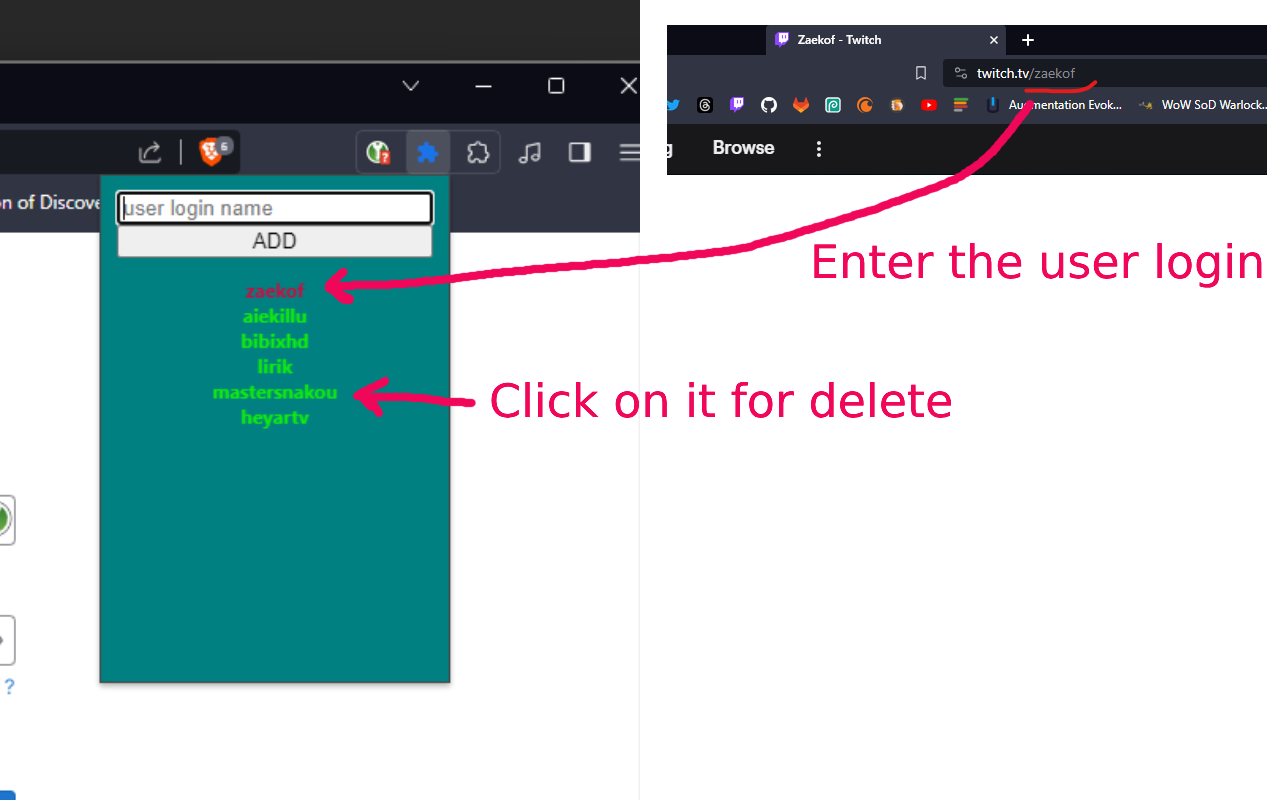
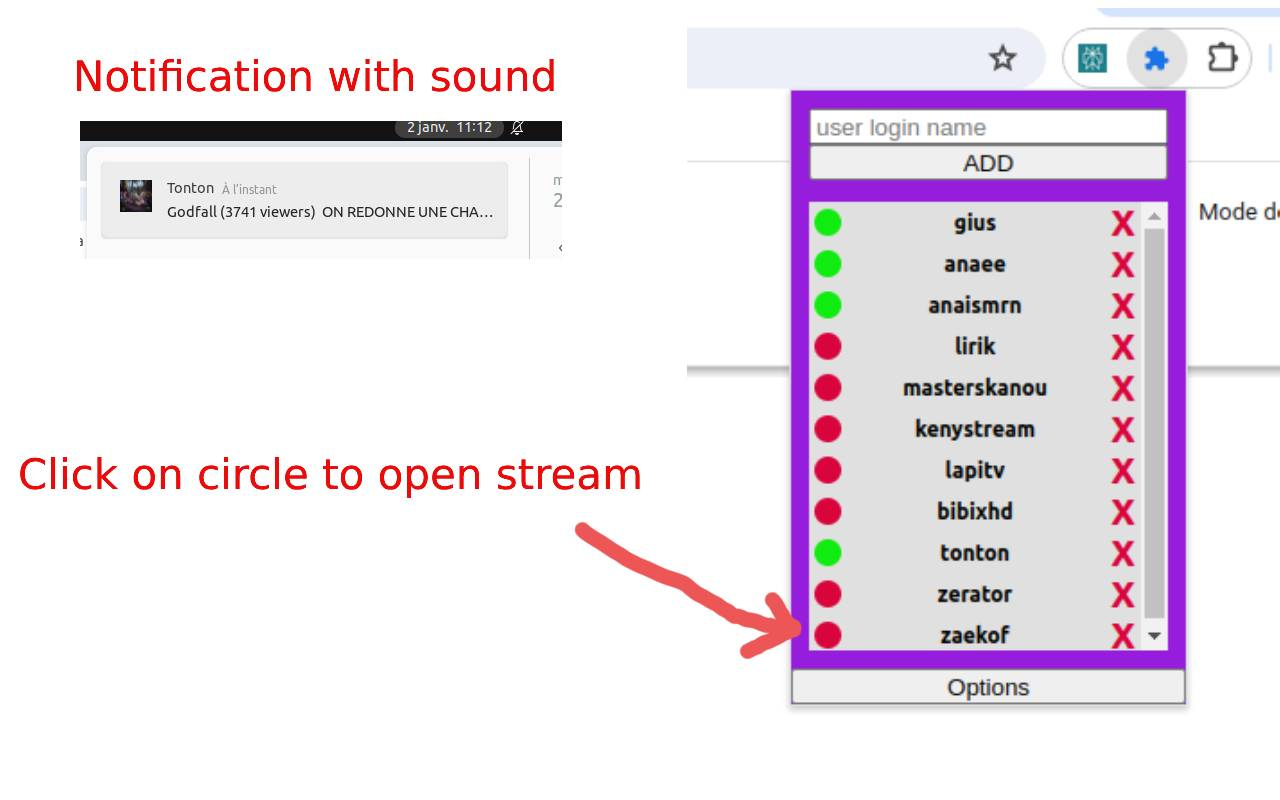
Add options button

diff --git a/src/popup/popup.js b/src/popup/popup.js
@@ -58,9 +58,16 @@ function generateListListener () {
   } = getDomElements()
 
   liElements.forEach((e) => {
-    e.addEventListener('click', async () => {
-      await removeUser(e.textContent)
+    const deleteElement = e.getElementsByClassName('li-delete')[0]
+    const statusElement = e.getElementsByClassName('li-status')[0]
+
+    deleteElement.addEventListener('click', async () => {
+      await removeUser(deleteElement.getAttribute('data-id'))
       generateList()
+    })
+
+    statusElement.addEventListener('click', async () => {
+      chrome.tabs.create({ url: `https://www.twitch.tv/${statusElement.getAttribute('data-id')}` })
     })
   })
 }
@@ -73,10 +80,11 @@ async function updateListStatus () {
   const userLoginsOnStream = (await getFullUsersOnStreams()).map(u => u.user_login)
 
   liElements.forEach((e) => {
-    if (userLoginsOnStream.includes(e.textContent)) {
-      e.style.color = '#10eb10'
+    const statusElement = e.getElementsByClassName('li-status')[0]
+    if (userLoginsOnStream.includes(statusElement.getAttribute('data-id'))) {
+      statusElement.style.background = '#10eb10'
     } else {
-      e.style.color = '#da043c'
+      statusElement.style.background = '#da043c'
     }
   })
 }
@@ -99,8 +107,18 @@ function generateList () {
         const ulLiElement = document.createElement('li')
         ulLiElement.textContent = u
         ulLiElement.classList.add('li')
-        ulLiElement.style.color = '#da043c'
-        ulLiElement.style.fontWeight = 'bold'
+
+        const ulLiSpanStatusElement = document.createElement('span')
+        ulLiSpanStatusElement.classList.add('li-status')
+        ulLiSpanStatusElement.setAttribute('data-id', u)
+        ulLiElement.prepend(ulLiSpanStatusElement)
+
+        const ulLiSpanDeleteElement = document.createElement('span')
+        ulLiSpanDeleteElement.classList.add('li-delete')
+        ulLiSpanDeleteElement.setAttribute('data-id', u)
+        ulLiSpanDeleteElement.textContent = 'X'
+        ulLiElement.appendChild(ulLiSpanDeleteElement)
+
         ulElement.appendChild(ulLiElement)
       })
 
@@ -126,6 +144,10 @@ function printError (error) {
 
 function main () {
   generateList()
+  const buttonOptionsElement = document.querySelector('.footer > button')
+  buttonOptionsElement.addEventListener('click', () => {
+    chrome.runtime.openOptionsPage()
+  })
 
   const {
     formElement,

diff --git a/src/popup/popup.css b/src/popup/popup.css
@@ -1,6 +1,6 @@
 html, body {
   margin: 0;
-  background-color: teal;
+  background-color: #961ddc;
 }
 
 .content {
@@ -16,16 +16,54 @@ ul {
   margin: 0;
 
   text-align: center;
-}
 
-ul li:hover {
-  cursor: not-allowed;
+  max-height: 250px;
+  overflow-x: auto;
 }
 
 input {
+  height: 20px;
   width: 100%
 }
 
 button {
-  width: 100%
+  height: 20px;
+  width: 100%;
+}
+
+li {
+  background-color: #e0e0e0;
+
+  height: auto;
+  width: 100%;
+
+  position: relative;
+  padding: 5px 0;
+  font-weight: bold;
+}
+
+li .li-delete {
+  width: 20px;
+  height: 20px;
+
+  position: absolute;
+  top: 2px;
+  right: 0;
+  line-height: 20px;
+  font-weight: bold;
+  font-size: 20px;
+  color: #da043c;
+  cursor: pointer;
+}
+
+li .li-status {
+  width: 15px;
+  height: 15px;
+
+  position: absolute;
+  top: 4px;
+  left: 3px;
+  border-radius: 15px;
+  background: #da043c;
+  cursor: pointer;
 }

diff --git a/src/popup/popup.html b/src/popup/popup.html
@@ -5,12 +5,15 @@
 <body>
 <div class="content">
   <div id="errors"></div>
+  <form id="form">
+    <input name="login" id="form-input" type="text" placeholder="user login name" autofocus/>
+    <button type="submit" id="form-button">ADD</button>
+  </form>
   <ul id="ul">
-    <form id="form">
-      <input name="login" id="form-input" type="text" placeholder="user login name" autofocus/>
-      <button type="submit" id="form-button">ADD</button>
-    </form>
   </ul>
+</div>
+<div class="footer">
+  <button type="button">Options</button>
 </div>
 <script src="popup.js" type="module"></script>
 </body>

diff --git a/src/consts.js b/src/consts.js
@@ -1,6 +1,11 @@
+import {
+  DEV_TWITCH_CLIENT_ID,
+  DEV_TWITCH_REDIRECT_URL
+} from './dev-consts.js'
+
 export const NOTIFICATION_STREAM_START = 'notificationStreamStart'
-export const TWITCH_CLIENT_ID = '' // TODO
-export const TWITCH_REDIRECT_URL = 'https://jbimlmhhhnhdlaebclplijleejkfdang.chromiumapp.org/'
+export const TWITCH_CLIENT_ID = DEV_TWITCH_CLIENT_ID
+export const TWITCH_REDIRECT_URL = DEV_TWITCH_REDIRECT_URL
 export const TWITCH_SCOPES = ''
 export const STORE_ACCESS_TOKEN_KEY = 'accessToken'
 export const STORE_USERS_KEY = 'users'

diff --git a/src/background.js b/src/background.js
@@ -30,6 +30,10 @@ async function openTwitchOauth () {
       url,
       interactive: true
     }, async (flowRedirectUrl) => {
+      if (typeof flowRedirectUrl === 'undefined') {
+        rej(false)
+      }
+
       const accessToken = extractTokenFromUrl(flowRedirectUrl)
       State.accessToken = accessToken
 
@@ -136,7 +140,7 @@ function handleTwitchOauth () {
 async function init (accessToken) {
   initCount += 1
 
-  if (initCount > 5) {
+  if (initCount > 3) {
     console.error('loop init : ' + accessToken)
     return
   }

diff --git a/README.md b/README.md
@@ -2,5 +2,15 @@
 
 Get notified when someone in your list has started livestream on Twitch
 
-![preview](/preview.png)
-![how to](/howTo.jpg)
+![how to](howTo.jpg)
+
+
+## Setup env
+
+- Create new file: `src/dev-consts.js`
+```js
+export const DEV_TWITCH_CLIENT_ID = '{YOUR_TWITCH_CLIENT_ID_HERE}' // https://dev.twitch.tv/console/apps
+export const DEV_TWITCH_REDIRECT_URL = 'https://{YOUR_EXTENSION_ID_HERE}.chromiumapp.org/' 
+```
+
+
